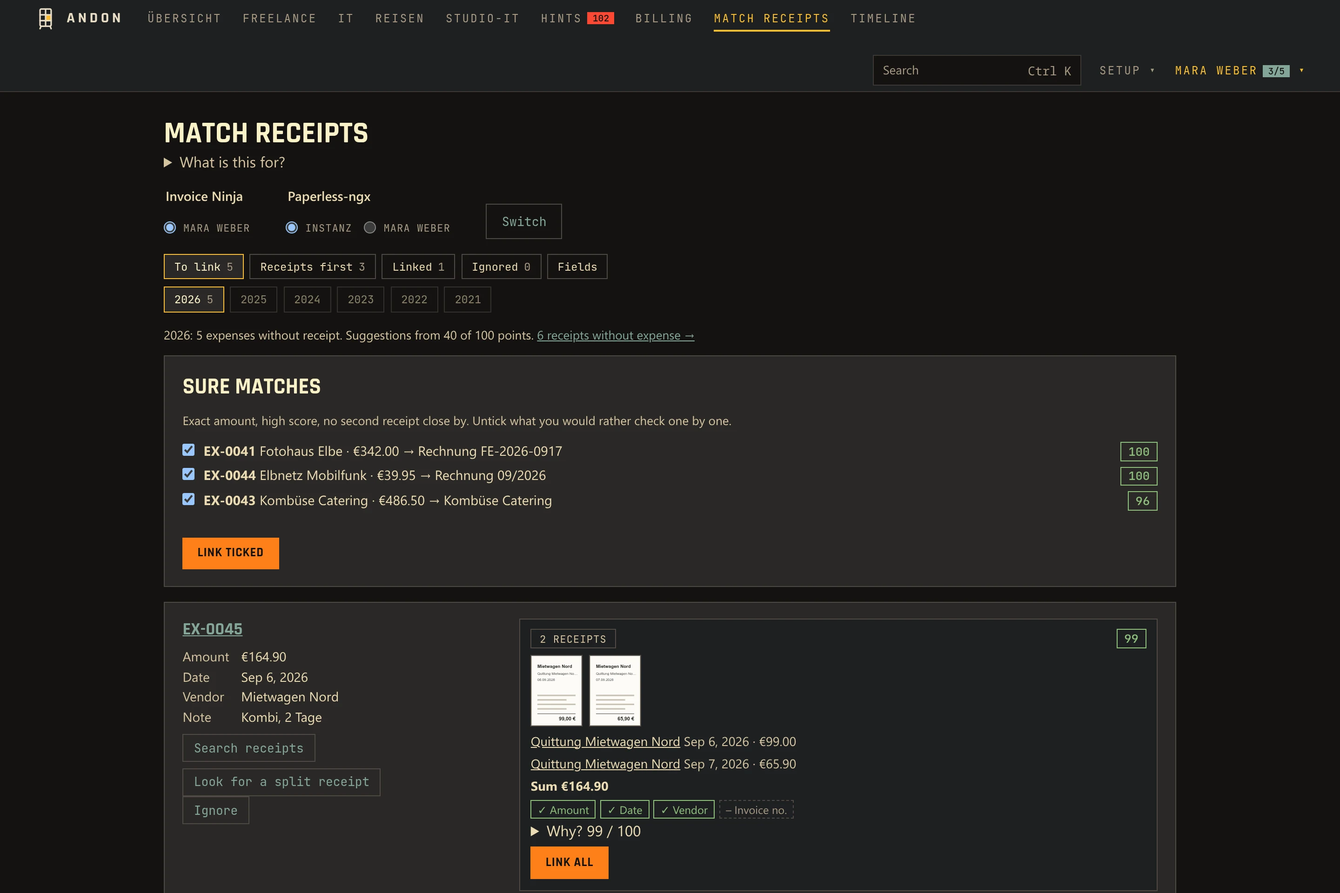
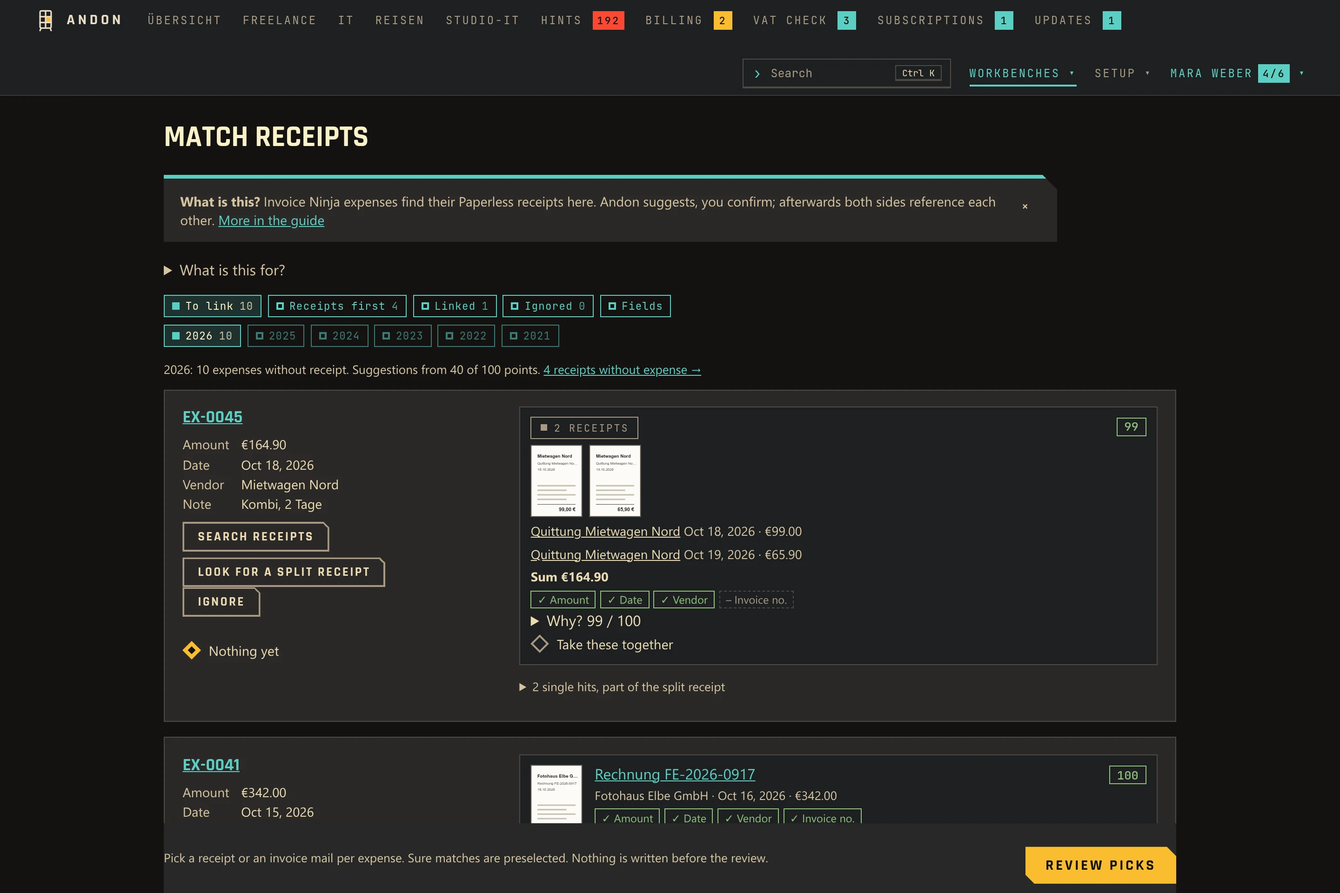
Release 0.8.0
Changelog in English and German, the same entry at the top of the
landing page's changes with three demo screenshots per language and a
diagram of the workbench flow; 0.5.0 moves into the older releases.
Footer and install note name 0.8; the landing shots are retaken for
the release (demo/shots.json gains the release shots).

diff --git a/docs/index.html b/docs/index.html
@@ -51,8 +51,8 @@
           <svg viewBox="0 0 24 24" width="18" height="18" fill="none" stroke="currentColor" stroke-width="2" stroke-linecap="round" stroke-linejoin="round"><rect x="9" y="9" width="13" height="13" rx="2"/><path d="M5 15H4a2 2 0 01-2-2V4a2 2 0 012-2h9a2 2 0 012 2v1"/></svg>
         </button>
       </div>
-      <p class="install-note" lang="en"><code>latest</code> is the newest release, <code>edge</code> follows development. To pin a release line, use e.g. <code>0.7</code>. Runs on a Raspberry Pi.</p>
-      <p class="install-note" lang="de"><code>latest</code> ist das neueste Release, <code>edge</code> folgt der Entwicklung. Eine Release-Linie festlegen, z. B. <code>0.7</code>. Läuft auf einem Raspberry Pi.</p>
+      <p class="install-note" lang="en"><code>latest</code> is the newest release, <code>edge</code> follows development. To pin a release line, use e.g. <code>0.8</code>. Runs on a Raspberry Pi.</p>
+      <p class="install-note" lang="de"><code>latest</code> ist das neueste Release, <code>edge</code> folgt der Entwicklung. Eine Release-Linie festlegen, z. B. <code>0.8</code>. Läuft auf einem Raspberry Pi.</p>
       <div class="install-links">
         <a class="btn btn-primary" href="#install"><span lang="en">Install</span><span lang="de">Installieren</span></a>
         <a class="btn btn-ghost" href="https://github.com/shrippen/andon">GitHub</a>
@@ -171,6 +171,58 @@
   <h2 lang="en">Changes</h2><h2 lang="de">Änderungen</h2>
   <p lang="en">What each release brought, newest first. Every release adds an entry here and the same notes on the release page.</p><p lang="de">Was jede Version gebracht hat, die neueste zuerst. Jede Version bekommt hier einen Eintrag und dieselben Notizen auf der Release-Seite.</p>
   <ol class="changelog">
+    <li class="release" id="v0.8.0">
+      <div class="release-head"><b class="release-version">0.8.0</b><time datetime="2026-11-03"><span lang="en">3 Nov 2026</span><span lang="de">3. Nov. 2026</span></time></div>
+      <div class="release-body">
+        <p class="release-lead"><span lang="en">Andon now does the paperwork with you instead of only pointing at it. Workbenches take the open cases of a service, propose what to write, show every step before anything leaves Andon, and write only what you confirmed, checked again against fresh data. The largest is the VAT check on Invoice Ninja's bank feed, up to the ELSTER figures.</span><span lang="de">Andon erledigt den Papierkram jetzt mit dir, statt nur darauf zu zeigen. Werkbänke nehmen die offenen Fälle eines Dienstes, schlagen vor, was zu schreiben ist, zeigen jeden Schritt, bevor etwas Andon verlässt, und schreiben nur, was du bestätigt hast, noch einmal gegen frische Daten geprüft. Die größte ist der USt-Abgleich auf Invoice Ninjas Bankumsätzen, bis zu den ELSTER-Kennzahlen.</span></p>
+        <div class="release-group" data-kind="new"><h3><span lang="en">New</span><span lang="de">Neu</span></h3><ul>
+          <li><span lang="en">Workbenches, in their own menu with an overview and favourites: VAT check, receipt hunt, EÜR lines, close the week in Kimai, reminders on Invoice Ninja's schedule, subscriptions, Sure categories, vendor clean-up, updates as pull requests, inventory of the devices on the network, complete purchases and release feeds. Each one works inside a bundle and shows what it would write before it writes.</span><span lang="de">Werkbänke, in einem eigenen Menü mit Übersicht und Favoriten: USt-Abgleich, Belegjagd, EÜR-Zeilen, Woche in Kimai schließen, Mahnlauf nach Invoice Ninjas Mahnplan, Abos, Sure-Kategorien, Lieferanten aufräumen, Updates als Pull Requests, Inventur der Geräte im Netz, Anschaffungen vervollständigen und Release-Feeds. Jede arbeitet in einem Verbund und zeigt, was sie schreiben würde, bevor sie schreibt.</span></li>
+          <li><span lang="en">VAT check: the period's bank transactions from Invoice Ninja (with Sure beside it) are linked to expenses, invoices and payments, or become new expenses with scan, EÜR line and invoice number; a debit can be split over several receipts, receipts without an expense become one. Period cards show what is open and due; the ELSTER figures and the recapitulative statement (ZM) are ready to copy.</span><span lang="de">USt-Abgleich: Die Bankumsätze des Zeitraums aus Invoice Ninja (mit Sure daneben) werden mit Ausgaben, Rechnungen und Zahlungen verknüpft oder zu neuen Ausgaben mit Beleg, EÜR-Zeile und Rechnungsnummer; eine Abbuchung lässt sich auf mehrere Belege aufteilen, Belege ohne Ausgabe werden zu einer. Zeitraum-Karten zeigen, was offen und fällig ist; ELSTER-Kennzahlen und Zusammenfassende Meldung stehen zum Kopieren bereit.</span></li>
+          <li><span lang="en">Work in progress stays: every change on a workbench is kept as a draft, so closing the page loses nothing. A draft gives way when its proposal changes (another reminder stage, another tag, another amount).</span><span lang="de">Zwischenstand bleibt: Jede Änderung in einer Werkbank wird gesichert, das Schließen der Seite verliert nichts. Ändert sich der Vorschlag (andere Mahnstufe, anderer Tag, anderer Betrag), gilt wieder der neue.</span></li>
+          <li><span lang="en">"Review this one" on the VAT check writes a single transaction while the others wait.</span><span lang="de">„Nur diesen prüfen“ im USt-Abgleich schreibt einen einzelnen Umsatz, die anderen warten.</span></li>
+          <li><span lang="en">Accounts in a bundle are business, private, mixed, clearing, reserve or ignored; the reserve covers VAT and income tax before free cash does.</span><span lang="de">Konten im Verbund sind geschäftlich, privat, gemischt, Verrechnung, Rücklage oder ignoriert; die Rücklage deckt Umsatz- und Einkommensteuer, bevor freies Geld es tut.</span></li>
+          <li><span lang="en">Write journal: every write of a workbench, with undo where the service allows it.</span><span lang="de">Schreib-Journal: jeder Schreibvorgang einer Werkbank, mit Rückgängig, wo der Dienst es erlaubt.</span></li>
+          <li><span lang="en">Year: EÜR preparation with depreciation, home office and the documents for the tax return; analyses of client health, price increases and project post-calculation; a year review and "Ask Andon".</span><span lang="de">Jahr: EÜR-Vorbereitung mit AfA, Homeoffice und den Unterlagen für die Steuererklärung; Auswertungen zu Kundenzustand, Preiserhöhung und Nachkalkulation; Jahresrückblick und „Frag Andon“.</span></li>
+          <li><span lang="en">Photovoltaics from Home Assistant: yield, own use and feed-in as a tile, with hints for a low or missing yield, an idle battery and falling own use.</span><span lang="de">Photovoltaik aus Home Assistant: Ertrag, Eigenverbrauch und Einspeisung als Kachel, mit Hinweisen bei niedrigem oder fehlendem Ertrag, ruhendem Speicher und sinkendem Eigenverbrauch.</span></li>
+          <li><span lang="en">AI costs: token use and cost of the LLM providers (xAI included), and a hint when a provider charges without an expense in Invoice Ninja.</span><span lang="de">KI-Kosten: Token-Nutzung und Kosten der LLM-Anbieter (auch xAI), und ein Hinweis, wenn ein Anbieter abbucht, ohne dass in Invoice Ninja eine Ausgabe steht.</span></li>
+          <li><span lang="en">Kept as a second inventory beside Snipe-IT: deadlines, receipts, warranties, location and room of new devices.</span><span lang="de">Kept als zweites Inventar neben Snipe-IT: Fristen, Belege, Garantien, Ort und Raum neuer Geräte.</span></li>
+          <li><span lang="en">Homelab cost per service, a dismissible notice for admins when a newer Andon is out, and moving a connection to another server (or taking over from another connection) without losing tiles, history or notes.</span><span lang="de">Homelab-Kosten je Dienst, ein ausblendbarer Hinweis für Admins, wenn eine neuere Andon-Version da ist, und Verbindungen auf einen anderen Server umziehen (oder von einer anderen übernehmen), ohne Kacheln, Verlauf oder Notizen zu verlieren.</span></li>
+        </ul></div>
+        <div class="release-group" data-kind="improved"><h3><span lang="en">Improved</span><span lang="de">Verbessert</span></h3><ul>
+          <li><span lang="en">FRITZ!Box reads everything over TR-064; Vikunja 2, current Ghostfolio versions and GoToSocial are recognised.</span><span lang="de">FRITZ!Box liest alles über TR-064; Vikunja 2, aktuelle Ghostfolio-Versionen und GoToSocial werden erkannt.</span></li>
+          <li><span lang="en">Number format in the profile: amounts read and typed as "1.234,56" or "1,234.56", independent of the language.</span><span lang="de">Zahlenformat im Profil: Beträge lesen und tippen sich als „1.234,56“ oder „1,234.56“, unabhängig von der Sprache.</span></li>
+          <li><span lang="en">One loading feedback everywhere; dialogs show texts instead of keys; counts use the singular ("1 hint").</span><span lang="de">Ein Ladefeedback überall; Dialoge zeigen Texte statt Schlüssel; Zähltexte kennen die Einzahl („1 Hinweis“).</span></li>
+          <li><span lang="en">Fewer and truer hints from real data: duplicates removed, reverse charge named as such, deleted Invoice Ninja entries ignored.</span><span lang="de">Weniger und treffendere Hinweise aus echten Daten: Doppelte entfernt, Reverse Charge als solches benannt, gelöschte Einträge in Invoice Ninja übergangen.</span></li>
+          <li><span lang="en">The container dialog opens in 2 instead of 10 seconds; Vaultwarden keeps its admin session.</span><span lang="de">Der Container-Dialog öffnet in 2 statt 10 Sekunden; Vaultwarden behält seine Admin-Sitzung.</span></li>
+        </ul></div>
+        <div class="release-group" data-kind="fixed"><h3><span lang="en">Fixed</span><span lang="de">Behoben</span></h3><ul>
+          <li><span lang="en">The edit mode broke after reloading a board.</span><span lang="de">Der Bearbeitungsmodus brach nach dem Neuladen eines Boards ab.</span></li>
+          <li><span lang="en">Snipe-IT costs in German format were misread.</span><span lang="de">Snipe-IT-Kosten im deutschen Format wurden falsch gelesen.</span></li>
+          <li><span lang="en">A typo in a rule threshold ("18.40" in German) saved a rule that fired on every value; it is now refused.</span><span lang="de">Ein Tippfehler in der Schwelle einer Regel („18.40“ auf Deutsch) speicherte eine Regel, die bei jedem Wert anschlug; er wird jetzt abgelehnt.</span></li>
+          <li><span lang="en">Status checks asked DNS twice when many ran at once.</span><span lang="de">Statusprüfungen fragten DNS doppelt, wenn viele gleichzeitig liefen.</span></li>
+        </ul></div>
+        <div class="release-group" data-kind="breaking"><h3><span lang="en">Note</span><span lang="de">Beachten</span></h3><ul>
+          <li><span lang="en">The Claude plan integration is gone: it read an undocumented claude.ai endpoint, and Anthropic suspended the account it read. Migration 0025 deletes such connections; AI costs come from the providers' admin APIs.</span><span lang="de">Die Claude-Abo-Integration ist entfernt: Sie las einen undokumentierten Endpunkt von claude.ai, und Anthropic hat das gelesene Konto gesperrt. Migration 0025 löscht solche Verbindungen; KI-Kosten kommen aus den Admin-APIs der Anbieter.</span></li>
+          <li><span lang="en">The EÜR line of an expense comes from its vendor's last expense, not from the category: one category belongs to several lines. The connection option "euer_map" is no longer read.</span><span lang="de">Die EÜR-Zeile einer Ausgabe kommt von der letzten Ausgabe ihres Lieferanten, nicht von der Kategorie: Eine Kategorie gehört zu mehreren Zeilen. Die Verbindungsoption „euer_map“ wird nicht mehr gelesen.</span></li>
+          <li><span lang="en">Rules of a category are named after it: snipe.* becomes inventory.*, sure.* and firefly.* become bank.*. Migration 0026 moves hints and rule settings along.</span><span lang="de">Regeln einer Kategorie heißen nach ihr: aus snipe.* wird inventory.*, aus sure.* und firefly.* wird bank.*. Migration 0026 zieht Hinweise und Regeleinstellungen mit.</span></li>
+          <li><span lang="en">The image is published only on ghcr.io/shrippen/andon, signed. Migrations 0025 to 0027 run at start.</span><span lang="de">Das Image erscheint nur noch auf ghcr.io/shrippen/andon, signiert. Die Migrationen 0025 bis 0027 laufen beim Start.</span></li>
+          <li><span lang="en">Workbenches write to your services. They were tested against throwaway containers of the services, not yet over months of real bookkeeping: read each review before you confirm.</span><span lang="de">Werkbänke schreiben in deine Dienste. Getestet wurden sie gegen Wegwerf-Container der Dienste, noch nicht über Monate echter Buchhaltung: Lies jede Prüfung, bevor du bestätigst.</span></li>
+        </ul></div>
+        <div class="release-shots">
+          <figure><img lang="en" src="shots/release-0.8.0-benches-en.webp" alt="The workbenches overview: customers and money, devices and operations, overview, each with its open hints and a star for the menu bar" loading="lazy"><img lang="de" src="shots/release-0.8.0-benches-de.webp" alt="Die Übersicht der Werkbänke: Kunden und Geld, Geräte und Betrieb, Überblick, jede mit ihren offenen Hinweisen und einem Stern für die Menüleiste" loading="lazy"></figure>
+          <figure><img lang="en" src="shots/release-0.8.0-vat-en.webp" alt="The VAT check: the period&#x27;s open transactions on the left, the desk of one debit on the right with scan, vendor, category, tax and note" loading="lazy"><img lang="de" src="shots/release-0.8.0-vat-de.webp" alt="Der USt-Abgleich: links die offenen Umsätze des Zeitraums, rechts die Arbeitsfläche einer Abbuchung mit Beleg, Lieferant, Kategorie, Steuer und Notiz" loading="lazy"></figure>
+          <figure><img lang="en" src="shots/release-0.8.0-vat-one-en.webp" alt="&quot;Review this one&quot;: the step of one transaction spelled out below its desk, with &quot;Write this one&quot;" loading="lazy"><img lang="de" src="shots/release-0.8.0-vat-one-de.webp" alt="„Nur diesen prüfen“: der Schritt eines Umsatzes ausgeschrieben unter seiner Arbeitsfläche, mit „Nur diesen schreiben“" loading="lazy"></figure>
+        </div>
+        <div class="flow">
+          <div class="flow-node"><b lang="en">Change</b><b lang="de">Ändern</b><span><span lang="en">a field or a tick on a case</span><span lang="de">ein Feld oder ein Häkchen an einem Fall</span></span></div><div class="flow-arrow"></div>
+          <div class="flow-node"><b lang="en">Draft</b><b lang="de">Zwischenstand</b><span><span lang="en">kept per user, bundle and period</span><span lang="de">gesichert je Benutzer, Verbund und Zeitraum</span></span></div><div class="flow-arrow"></div>
+          <div class="flow-node hl"><b lang="en">Review</b><b lang="de">Prüfen</b><span><span lang="en">every step spelled out, nothing written yet</span><span lang="de">jeder Schritt ausgeschrieben, noch nichts geschrieben</span></span></div><div class="flow-arrow"></div>
+          <div class="flow-node"><b lang="en">Write</b><b lang="de">Schreiben</b><span><span lang="en">checked again against fresh data</span><span lang="de">noch einmal gegen frische Daten geprüft</span></span></div><div class="flow-arrow"></div>
+          <div class="flow-node"><b lang="en">Journal</b><b lang="de">Journal</b><span><span lang="en">one entry per write, undo where possible</span><span lang="de">ein Eintrag je Schreibvorgang, Rückgängig wo möglich</span></span></div>
+        </div>
+        <a class="release-notes" href="https://github.com/shrippen/andon/compare/v0.7.0...v0.8.0"><span lang="en">All changes since 0.7.0 →</span><span lang="de">Alle Änderungen seit 0.7.0 →</span></a>
+      </div>
+    </li>
     <li class="release" id="v0.7.0">
       <div class="release-head"><b class="release-version">0.7.0</b><time datetime="2026-10-07"><span lang="en">7 Oct 2026</span><span lang="de">7. Okt. 2026</span></time></div>
       <div class="release-body">
@@ -267,6 +319,9 @@
         <a class="release-notes" href="https://github.com/shrippen/andon/compare/v0.5.0...v0.6.0"><span lang="en">All changes since 0.5.0 →</span><span lang="de">Alle Änderungen seit 0.5.0 →</span></a>
       </div>
     </li>
+  </ol>
+  <details class="changelog-more"><summary><span lang="en">Older releases</span><span lang="de">Ältere Versionen</span></summary>
+    <ol class="changelog">
     <li class="release" id="v0.5.0">
       <div class="release-head"><b class="release-version">0.5.0</b><time datetime="2026-10-03"><span lang="en">3 Oct 2026</span><span lang="de">3. Okt. 2026</span></time></div>
       <div class="release-body">
@@ -299,9 +354,6 @@
         <a class="release-notes" href="https://github.com/shrippen/andon/compare/v0.4.0...v0.5.0"><span lang="en">All changes since 0.4.0 →</span><span lang="de">Alle Änderungen seit 0.4.0 →</span></a>
       </div>
     </li>
-  </ol>
-  <details class="changelog-more"><summary><span lang="en">Older releases</span><span lang="de">Ältere Versionen</span></summary>
-    <ol class="changelog">
       <li class="release" id="v0.4.0">
         <div class="release-head"><b class="release-version">0.4.0</b><time datetime="2026-09-26"><span lang="en">26 Sep 2026</span><span lang="de">26. Sep. 2026</span></time></div>
         <div class="release-body">
@@ -331,7 +383,7 @@
       <div><h4><span lang="en">Source</span><span lang="de">Quelltext</span></h4><a href="https://github.com/shrippen/andon">GitHub</a><a href="https://github.com/shrippen/andon/issues">Issues</a><a href="https://github.com/shrippen/andon/releases">Releases</a></div>
     </nav>
   </div>
-  <div class="foot-meta"><p>GPL-3.0 · shrippen · <a href="#changes">v0.7</a></p></div>
+  <div class="foot-meta"><p>GPL-3.0 · shrippen · <a href="#changes">v0.8</a></p></div>
 </footer>
 
 </body>

diff --git a/CHANGELOG.md b/CHANGELOG.md
@@ -3,6 +3,100 @@
 The release notes of Andon, newest first. Each section is the text of the release on Gitea and of
 its entry in `#changes` on the landing page (`docs/index.html`).
 
+## [0.8.0] — 2026-11-03
+
+### English
+
+Andon now does the paperwork with you instead of only pointing at it. Workbenches take the open cases of a service, propose what to write, show every step before anything leaves Andon, and write only what you confirmed, checked again against fresh data. The largest is the VAT check on Invoice Ninja's bank feed, up to the ELSTER figures.
+
+#### New
+- Workbenches, in their own menu with an overview and favourites: VAT check, receipt hunt, EÜR lines, close the week in Kimai, reminders on Invoice Ninja's schedule, subscriptions, Sure categories, vendor clean-up, updates as pull requests, inventory of the devices on the network, complete purchases and release feeds. Each one works inside a bundle and shows what it would write before it writes.
+- VAT check: the period's bank transactions from Invoice Ninja (with Sure beside it) are linked to expenses, invoices and payments, or become new expenses with scan, EÜR line and invoice number; a debit can be split over several receipts, receipts without an expense become one. Period cards show what is open and due; the ELSTER figures and the recapitulative statement (ZM) are ready to copy.
+- Work in progress stays: every change on a workbench is kept as a draft, so closing the page loses nothing. A draft gives way when its proposal changes (another reminder stage, another tag, another amount).
+- "Review this one" on the VAT check writes a single transaction while the others wait.
+- Accounts in a bundle are business, private, mixed, clearing, reserve or ignored; the reserve covers VAT and income tax before free cash does.
+- Write journal: every write of a workbench, with undo where the service allows it.
+- Year: EÜR preparation with depreciation, home office and the documents for the tax return; analyses of client health, price increases and project post-calculation; a year review and "Ask Andon".
+- Photovoltaics from Home Assistant: yield, own use and feed-in as a tile, with hints for a low or missing yield, an idle battery and falling own use.
+- AI costs: token use and cost of the LLM providers (xAI included), and a hint when a provider charges without an expense in Invoice Ninja.
+- Kept as a second inventory beside Snipe-IT: deadlines, receipts, warranties, location and room of new devices.
+- Homelab cost per service, a dismissible notice for admins when a newer Andon is out, and moving a connection to another server (or taking over from another connection) without losing tiles, history or notes.
+
+#### Improved
+- FRITZ!Box reads everything over TR-064; Vikunja 2, current Ghostfolio versions and GoToSocial are recognised.
+- Number format in the profile: amounts read and typed as "1.234,56" or "1,234.56", independent of the language.
+- One loading feedback everywhere; dialogs show texts instead of keys; counts use the singular ("1 hint").
+- Fewer and truer hints from real data: duplicates removed, reverse charge named as such, deleted Invoice Ninja entries ignored.
+- The container dialog opens in 2 instead of 10 seconds; Vaultwarden keeps its admin session.
+
+#### Fixed
+- The edit mode broke after reloading a board.
+- Snipe-IT costs in German format were misread.
+- A typo in a rule threshold ("18.40" in German) saved a rule that fired on every value; it is now refused.
+- Status checks asked DNS twice when many ran at once.
+
+#### Note
+- The Claude plan integration is gone: it read an undocumented claude.ai endpoint, and Anthropic suspended the account it read. Migration 0025 deletes such connections; AI costs come from the providers' admin APIs.
+- The EÜR line of an expense comes from its vendor's last expense, not from the category: one category belongs to several lines. The connection option "euer_map" is no longer read.
+- Rules of a category are named after it: snipe.* becomes inventory.*, sure.* and firefly.* become bank.*. Migration 0026 moves hints and rule settings along.
+- The image is published only on ghcr.io/shrippen/andon, signed. Migrations 0025 to 0027 run at start.
+- Workbenches write to your services. They were tested against throwaway containers of the services, not yet over months of real bookkeeping: read each review before you confirm.
+
+![The workbenches overview (demo data)](https://shrippen.github.io/andon/shots/release-0.8.0-benches-en.webp)
+
+![The VAT check: list and desk of one transaction (demo data)](https://shrippen.github.io/andon/shots/release-0.8.0-vat-en.webp)
+
+![One transaction reviewed below its desk (demo data)](https://shrippen.github.io/andon/shots/release-0.8.0-vat-one-en.webp)
+
+### Deutsch
+
+Andon erledigt den Papierkram jetzt mit dir, statt nur darauf zu zeigen. Werkbänke nehmen die offenen Fälle eines Dienstes, schlagen vor, was zu schreiben ist, zeigen jeden Schritt, bevor etwas Andon verlässt, und schreiben nur, was du bestätigt hast, noch einmal gegen frische Daten geprüft. Die größte ist der USt-Abgleich auf Invoice Ninjas Bankumsätzen, bis zu den ELSTER-Kennzahlen.
+
+#### Neu
+- Werkbänke, in einem eigenen Menü mit Übersicht und Favoriten: USt-Abgleich, Belegjagd, EÜR-Zeilen, Woche in Kimai schließen, Mahnlauf nach Invoice Ninjas Mahnplan, Abos, Sure-Kategorien, Lieferanten aufräumen, Updates als Pull Requests, Inventur der Geräte im Netz, Anschaffungen vervollständigen und Release-Feeds. Jede arbeitet in einem Verbund und zeigt, was sie schreiben würde, bevor sie schreibt.
+- USt-Abgleich: Die Bankumsätze des Zeitraums aus Invoice Ninja (mit Sure daneben) werden mit Ausgaben, Rechnungen und Zahlungen verknüpft oder zu neuen Ausgaben mit Beleg, EÜR-Zeile und Rechnungsnummer; eine Abbuchung lässt sich auf mehrere Belege aufteilen, Belege ohne Ausgabe werden zu einer. Zeitraum-Karten zeigen, was offen und fällig ist; ELSTER-Kennzahlen und Zusammenfassende Meldung stehen zum Kopieren bereit.
+- Zwischenstand bleibt: Jede Änderung in einer Werkbank wird gesichert, das Schließen der Seite verliert nichts. Ändert sich der Vorschlag (andere Mahnstufe, anderer Tag, anderer Betrag), gilt wieder der neue.
+- „Nur diesen prüfen“ im USt-Abgleich schreibt einen einzelnen Umsatz, die anderen warten.
+- Konten im Verbund sind geschäftlich, privat, gemischt, Verrechnung, Rücklage oder ignoriert; die Rücklage deckt Umsatz- und Einkommensteuer, bevor freies Geld es tut.
+- Schreib-Journal: jeder Schreibvorgang einer Werkbank, mit Rückgängig, wo der Dienst es erlaubt.
+- Jahr: EÜR-Vorbereitung mit AfA, Homeoffice und den Unterlagen für die Steuererklärung; Auswertungen zu Kundenzustand, Preiserhöhung und Nachkalkulation; Jahresrückblick und „Frag Andon“.
+- Photovoltaik aus Home Assistant: Ertrag, Eigenverbrauch und Einspeisung als Kachel, mit Hinweisen bei niedrigem oder fehlendem Ertrag, ruhendem Speicher und sinkendem Eigenverbrauch.
+- KI-Kosten: Token-Nutzung und Kosten der LLM-Anbieter (auch xAI), und ein Hinweis, wenn ein Anbieter abbucht, ohne dass in Invoice Ninja eine Ausgabe steht.
+- Kept als zweites Inventar neben Snipe-IT: Fristen, Belege, Garantien, Ort und Raum neuer Geräte.
+- Homelab-Kosten je Dienst, ein ausblendbarer Hinweis für Admins, wenn eine neuere Andon-Version da ist, und Verbindungen auf einen anderen Server umziehen (oder von einer anderen übernehmen), ohne Kacheln, Verlauf oder Notizen zu verlieren.
+
+#### Verbessert
+- FRITZ!Box liest alles über TR-064; Vikunja 2, aktuelle Ghostfolio-Versionen und GoToSocial werden erkannt.
+- Zahlenformat im Profil: Beträge lesen und tippen sich als „1.234,56“ oder „1,234.56“, unabhängig von der Sprache.
+- Ein Ladefeedback überall; Dialoge zeigen Texte statt Schlüssel; Zähltexte kennen die Einzahl („1 Hinweis“).
+- Weniger und treffendere Hinweise aus echten Daten: Doppelte entfernt, Reverse Charge als solches benannt, gelöschte Einträge in Invoice Ninja übergangen.
+- Der Container-Dialog öffnet in 2 statt 10 Sekunden; Vaultwarden behält seine Admin-Sitzung.
+
+#### Behoben
+- Der Bearbeitungsmodus brach nach dem Neuladen eines Boards ab.
+- Snipe-IT-Kosten im deutschen Format wurden falsch gelesen.
+- Ein Tippfehler in der Schwelle einer Regel („18.40“ auf Deutsch) speicherte eine Regel, die bei jedem Wert anschlug; er wird jetzt abgelehnt.
+- Statusprüfungen fragten DNS doppelt, wenn viele gleichzeitig liefen.
+
+#### Hinweis
+- Die Claude-Abo-Integration ist entfernt: Sie las einen undokumentierten Endpunkt von claude.ai, und Anthropic hat das gelesene Konto gesperrt. Migration 0025 löscht solche Verbindungen; KI-Kosten kommen aus den Admin-APIs der Anbieter.
+- Die EÜR-Zeile einer Ausgabe kommt von der letzten Ausgabe ihres Lieferanten, nicht von der Kategorie: Eine Kategorie gehört zu mehreren Zeilen. Die Verbindungsoption „euer_map“ wird nicht mehr gelesen.
+- Regeln einer Kategorie heißen nach ihr: aus snipe.* wird inventory.*, aus sure.* und firefly.* wird bank.*. Migration 0026 zieht Hinweise und Regeleinstellungen mit.
+- Das Image erscheint nur noch auf ghcr.io/shrippen/andon, signiert. Die Migrationen 0025 bis 0027 laufen beim Start.
+- Werkbänke schreiben in deine Dienste. Getestet wurden sie gegen Wegwerf-Container der Dienste, noch nicht über Monate echter Buchhaltung: Lies jede Prüfung, bevor du bestätigst.
+
+![Die Übersicht der Werkbänke (Demodaten)](https://shrippen.github.io/andon/shots/release-0.8.0-benches-de.webp)
+
+![Der USt-Abgleich: Liste und Arbeitsfläche eines Umsatzes (Demodaten)](https://shrippen.github.io/andon/shots/release-0.8.0-vat-de.webp)
+
+![Ein einzelner Umsatz geprüft, unter seiner Arbeitsfläche (Demodaten)](https://shrippen.github.io/andon/shots/release-0.8.0-vat-one-de.webp)
+
+```
+Change a case → draft (per user, bundle, period) → review → write, checked against fresh data → journal
+```
+
+All changes / Alle Änderungen: https://github.com/shrippen/andon/compare/v0.7.0...v0.8.0 · Changelog: https://shrippen.github.io/andon/#v0.8.0
+
 ## [0.7.0] — 2026-10-07
 
 ### English

diff --git a/ROADMAP.md b/ROADMAP.md
@@ -2,7 +2,7 @@
 
 Ein selbst gehostetes, **mehrbenutzerfähiges** Dashboard. Es löst Dashy als **Startseite mit Links, Statusanzeigen und Feeds** ab, führt zugleich Daten aus **Kimai**, **Invoice Ninja**, **Snipe-IT** und **Dawarich** zusammen und leitet daraus **Hinweise, Erinnerungen und Ratschläge** ab. Konfiguriert wird im **eingebauten Editor**, gestaltet über ein **Theme-System**, von dem nur das Theme **Kante** mitgeliefert wird. Auslieferung als **ein Docker-Container** mit eigener Anmeldung.
 
-> Stand: v0.7 · Name **Andon** (seit 2026-09-26, vorher Arbeitstitel `dashboard`): die Signaltafel aus der Fertigung, die zeigt, wo es hakt.
+> Stand: v0.8 · Name **Andon** (seit 2026-09-26, vorher Arbeitstitel `dashboard`): die Signaltafel aus der Fertigung, die zeigt, wo es hakt.
 >
 > **Veröffentlichung:** Quelltext und Entwicklung auf `git.arianw.de/shrippen/andon` (privat). Gitea spiegelt bei jedem Commit alle Branches und Tags nach `github.com/shrippen/andon`; dort prüft `.github/workflows/ci.yml` jeden Push, meldet das Ergebnis als Status `github / test` an den Commit in Gitea zurück und baut aus `main` und Tags das öffentliche Image `ghcr.io/shrippen/andon` (seit 16.10.2026 CI und Image nur dort; erster Lauf 9 min gegen 21–24 min auf Gitea), und GitHub Pages zeigt die Landing Page aus `docs/` unter `shrippen.github.io/andon/`.
 >
